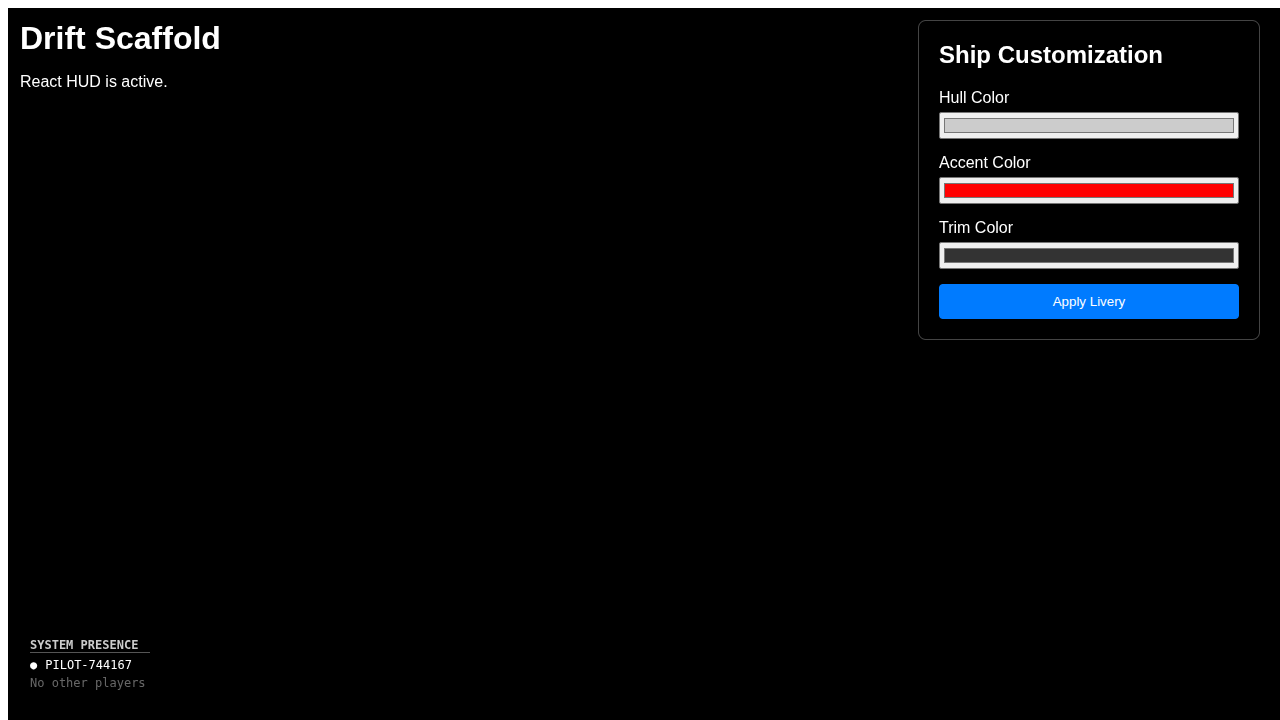
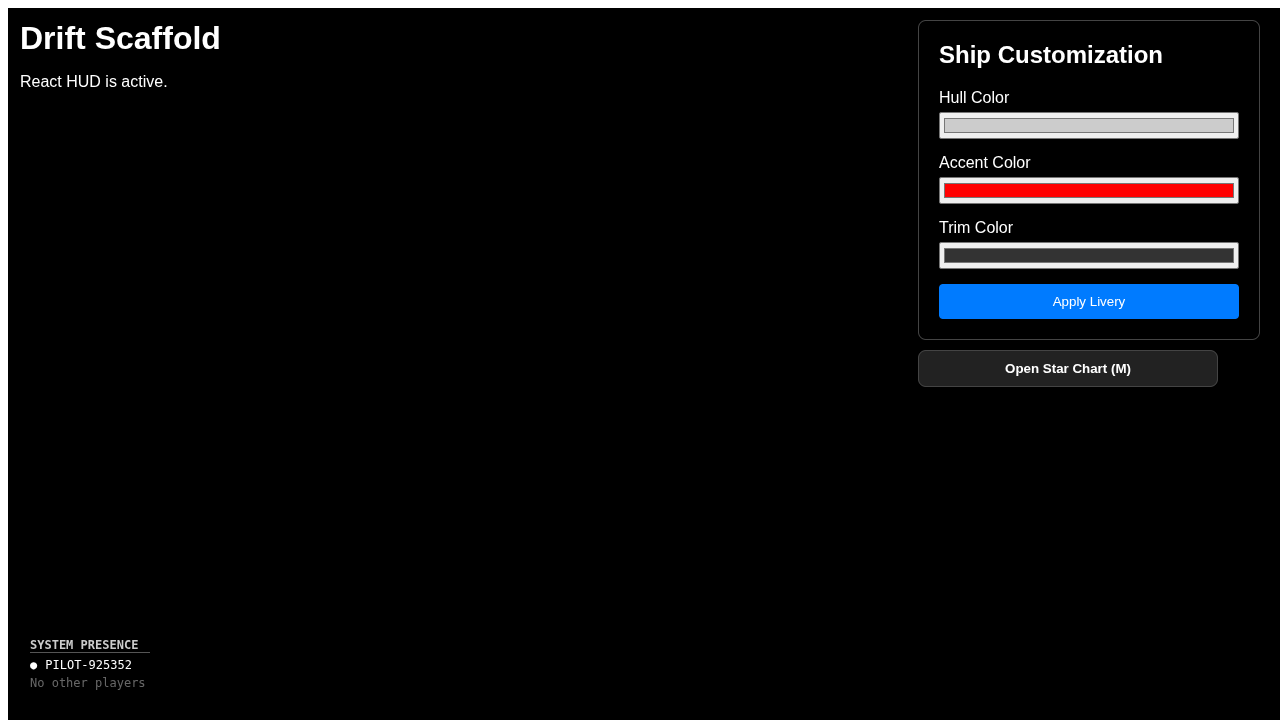
wip(TASK-8.1): synchronized galaxy seed between client and server; E2E locators still need fixing

Changed region(s): [[0.7188, 0.4889, 0.9688, 0.55], [0.8125, 0.3972, 0.875, 0.4278], [0.0625, 0.9167, 0.0938, 0.9472]]

diff --git a/app/tests/e2e/warp.spec.ts b/app/tests/e2e/warp.spec.ts
@@ -1,0 +1,89 @@
+import { test, expect } from './fixtures';
+import { ClaimPage } from './pages/claim';
+
+test.describe('Warp Flow', () => {
+  test('seamless warp between systems', async ({ page, gameServer, claimPage }) => {
+    page.on('console', (msg) => console.log(`BROWSER CONSOLE: ${msg.text()}`));
+    page.on('pageerror', (err) => console.log(`BROWSER ERROR: ${err.message}`));
+
+    await page.goto(gameServer.baseUrl);
+
+    const callsign = `WARP-TEST-${Date.now().toString().slice(-6)}`;
+    await claimPage.claimCallsign(callsign);
+
+    // 1. Open Star Chart
+    await page.keyboard.press('m');
+    await expect(page.getByText('Loading Galaxy...')).toBeVisible();
+    await expect(page.getByText('Loading Galaxy...')).toBeHidden({ timeout: 10000 });
+    await expect(page.getByText('Close (Esc)')).toBeVisible();
+
+    // 2. Select a target system (not the current one)
+    // The current system has a green stroke. We find a circle that doesn't have it.
+    const circles = page.locator('circle');
+    const count = await circles.count();
+    
+    // Find a circle that isn't the current one (green stroke)
+    let targetCircle = null;
+    for (let i = 0; i < count; i++) {
+      const stroke = await circles.nth(i).getAttribute('stroke');
+      if (stroke !== 'rgb(0, 255, 0)' && stroke !== '#00ff00') {
+        targetCircle = circles.nth(i);
+        break;
+      }
+    }
+
+    if (!targetCircle) {
+      throw new Error('Could not find a target system to warp to');
+    }
+
+    await targetCircle.click({ force: true });
+
+    // 3. Click Warp
+    const warpButton = page.getByRole('button', { name: 'Warp' });
+    await expect(warpButton).toBeEnabled();
+    
+    const start = Date.now();
+    await warpButton.click();
+
+    // 4. Verify "Warping..." state
+    await expect(warpButton).toHaveText('Warping...');
+
+    // 5. Check for black frames during warp-in (t=1s)
+    // Wait 1 second into the warp-in transition
+    await page.waitForTimeout(1000);
+    const pixels = await page.evaluate(() => {
+      const canvas = document.getElementById('main-canvas') as HTMLCanvasElement;
+      if (!canvas) return null;
+      const gl = canvas.getContext('webgl2') || canvas.getContext('webgl');
+      if (!gl) return null;
+
+      const width = 32;
+      const height = 32;
+      const x = (canvas.width - width) / 2;
+      const y = (canvas.height - height) / 2;
+      const pixels = new Uint8Array(width * height * 4);
+      gl.readPixels(x, y, width, height, gl.RGBA, gl.UNSIGNED_BYTE, pixels);
+      return Array.from(pixels);
+    });
+
+    expect(pixels).not.toBeNull();
+    const firstPixel = pixels![0];
+    const hasVariance = pixels!.some((p) => p !== firstPixel);
+    expect(hasVariance).toBe(true); // Not a black screen
+
+    // 6. Wait for arrival (total warp duration 3-6s)
+    await expect(warpButton).toBeHidden({ timeout: 10000 });
+    const end = Date.now();
+    const duration = (end - start) / 1000;
+    console.log(`Warp duration: ${duration}s`);
+    expect(duration).toBeGreaterThan(3);
+    expect(duration).toBeLessThan(8);
+
+    // 7. Verify we are in a new system (star present at center)
+    // Since we are using a deterministic world, the star is always at 0,0,0
+    // We can check if the canvas still has variance and the HUD is back
+    await expect(page.getByText('Drift Scaffold')).toBeVisible();
+    
+    await page.screenshot({ path: '.ralph/screenshots/TASK-8-warp-arrival.png' });
+  });
+});

diff --git a/app/tests/warp.integration.test.ts b/app/tests/warp.integration.test.ts
@@ -7,6 +7,7 @@ import { encodeMessage, decodeEnvelope } from '../src/shared/protocol';
 import { migrate } from '../src/server/db/client';
 import { router } from '../src/server/galaxy';
 import fastify from 'fastify';
+import fs from 'node:fs';
 
 describe('Warp Integration (TASK-8)', () => {
   let wss: WebSocketServer;
@@ -15,6 +16,9 @@ describe('Warp Integration (TASK-8)', () => {
 
   beforeEach(async () => {
     process.env.DB_PATH = '/tmp/warp_test.sqlite';
+    if (fs.existsSync(process.env.DB_PATH)) {
+      fs.unlinkSync(process.env.DB_PATH);
+    }
     await migrate();
     server = createApp();
     await server.listen({ port: 0, host: '127.0.0.1' });
@@ -54,7 +58,11 @@ describe('Warp Integration (TASK-8)', () => {
       url: '/api/callsigns',
       payload: { callsign },
     });
-    const { token, playerId } = JSON.parse(claimResp.payload as string);
+    const payload = typeof claimResp.payload === 'string' 
+      ? JSON.parse(claimResp.payload) 
+      : claimResp.payload;
+    console.log(`[Test] Claim payload: ${JSON.stringify(payload)}`);
+    const { token, playerId } = payload;
     
     const ws = await createClient();
     ws.send(encodeMessage('hello', { v: 1 }));
@@ -82,12 +90,10 @@ describe('Warp Integration (TASK-8)', () => {
     expect(resp.payload.snapshot).toBeDefined();
     
     // Verify position is at spawn gate (100, 0, 0)
-    const ship = resp.payload.snapshot.entities.find((e: any) => e.id === playerId);
+    const shipId = resp.payload.shipId;
+    const ship = resp.payload.snapshot.find((e: any) => e.id === shipId);
     if (!ship) {
-        // The ship might not be in the snapshot if it's the local player? 
-        // No, the server sends a full snapshot on warp-arrived.
-        // Wait, in my implemention I used shard.getSnapshot() which includes all entities.
-        throw new Error('Ship not found in warp-arrived snapshot');
+        throw new Error(`Ship ${shipId} not found in warp-arrived snapshot`);
     }
     expect(ship.pos).toEqual({ x: 100, y: 0, z: 0 });
     

diff --git a/app/src/client/main.tsx b/app/src/client/main.tsx
@@ -13,10 +13,8 @@ import { networkManager } from './net/NetworkManager';
 import { warpStore } from './state/warpStore';
 import { initDriftDebug } from './driftDebug';
 
-// Install dev-only debug hooks
+import { DEFAULT_GALAXY_SEED } from '../shared/galaxy/config';
 initDriftDebug();
-
-const GALAXY_SEED = 'drift-galaxy-2026';
 
 const App = () => {
   const [renderer, setRenderer] = useState<Renderer | null>(null);
@@ -24,6 +22,7 @@ const App = () => {
   const [callsign, setCallsign] = useState('');
   const [claimError, setClaimError] = useState<string | null>(null);
   const canvasRef = useRef<HTMLCanvasElement>(null);
+  const galaxySeedRef = useRef(DEFAULT_GALAXY_SEED);
   const [livery, setLivery] = useState<Livery>({
     hull: '#cccccc',
     accent: '#ff0000',
@@ -37,6 +36,17 @@ const App = () => {
       setWarpState(warpStore.state);
     });
     return unsubscribe;
+  }, []);
+
+  useEffect(() => {
+    fetch('/api/health')
+      .then((res) => res.json())
+      .then((data) => {
+        if (data.galaxySeed) {
+          galaxySeedRef.current = data.galaxySeed;
+        }
+      })
+      .catch((err) => console.error('Failed to fetch galaxy seed:', err));
   }, []);
 
   useEffect(() => {
@@ -87,7 +97,7 @@ const App = () => {
     networkManager.onWarpArrived = async (data: any) => {
       const { systemId } = data;
       if (r) {
-        await r.loadWorld(systemId, GALAXY_SEED);
+        await r.loadWorld(systemId, galaxySeedRef.current);
       }
       warpStore.setState('warping-out');
       

diff --git a/app/src/server/ws.ts b/app/src/server/ws.ts
@@ -21,6 +21,11 @@ import { verifyToken, hashToken } from './auth/token';
 import { gameEvents, GameEventType } from './events';
 import { router } from './galaxy';
 import { Shard } from './shard/shard';
+import { GALAXY_SEED } from './app';
+import { generateStars } from '../shared/galaxy/stars';
+
+const GALAXY_STARS = generateStars(GALAXY_SEED);
+const DEFAULT_SYSTEM_ID = GALAXY_STARS[0].id;
 
 type ConnectionState = 'hello' | 'auth' | 'join_system' | 'active';
 
@@ -234,7 +239,10 @@ export function setupWebSocketHandler(wss: WebSocketServer) {
           ctx.playerId = session.player_id;
           ctx.tokenHash = tokenHash;
           ctx.state = 'join_system';
-          ws.send(encodeMessage('auth_ok', { playerId: session.player_id }));
+                     ws.send(encodeMessage('auth_ok', { 
+             playerId: session.player_id, 
+             systemId: DEFAULT_SYSTEM_ID 
+           }));
         } else {
           sendError(ws, 'invalid-message', 'Expected auth message');
         }
@@ -374,6 +382,7 @@ export function setupWebSocketHandler(wss: WebSocketServer) {
 
             ws.send(encodeMessage('warp-arrived', {
               systemId: destinationSystemId,
+              shipId: ship.id,
               snapshot: shard.getSnapshot(),
             }));
           } catch (err) {

diff --git a/app/src/client/ui/WarpOverlay.tsx b/app/src/client/ui/WarpOverlay.tsx
@@ -19,7 +19,7 @@ export const WarpOverlay: React.FC = () => {
       alignItems: 'center',
       justifyContent: 'center',
       overflow: 'hidden',
-      backgroundColor: state === 'awaiting' ? 'rgba(0,0,0,0.8)' : 'transparent',
+      backgroundColor: state === 'awaiting' ? 'rgba(0,0,0,0.8)' : 'rgba(0,0,0,0.5)',
       transition: 'background-color 0.5s ease',
     }}>
       {(state === 'warping-in' || state === 'warping-out') && (
@@ -27,7 +27,7 @@ export const WarpOverlay: React.FC = () => {
           position: 'absolute',
           width: '200%',
           height: '200%',
-          backgroundImage: 'radial-gradient(circle, transparent 20%, rgba(255,255,255,0.2) 21%, transparent 22%)',
+          backgroundImage: 'radial-gradient(circle, transparent 20%, rgba(255,255,255,0.6) 21%, transparent 22%)',
           backgroundSize: '100px 100px',
           animation: state === 'warping-in' 
             ? 'warp-in 2s ease-in forwards' 

diff --git a/app/src/server/app.ts b/app/src/server/app.ts
@@ -7,11 +7,11 @@ import { playersRoutes } from './routes/players';
 import { shipsRoutes } from './routes/ships';
 import { galaxyRoutes } from './routes/galaxy';
 
-// Load environment variables from PROJECT_ROOT/.env.local
+import { DEFAULT_GALAXY_SEED } from '../shared/galaxy/config';
 
 dotenv.config({ path: path.resolve(__dirname, '../../../.env.local') });
 
-const GALAXY_SEED = process.env.GALAXY_SEED || 'default-seed';
+const GALAXY_SEED = process.env.GALAXY_SEED || DEFAULT_GALAXY_SEED;
 
 export function createApp(options: { logger?: any } = {}) {
   const fastify = Fastify({ logger: options.logger ?? false });

diff --git a/app/src/server/db/client.ts b/app/src/server/db/client.ts
@@ -63,13 +63,14 @@ export async function migrate() {
     return;
   }
 
+  const currentDbPath = process.env.DB_PATH || DB_PATH;
   const migrationsDir = path.join(__dirname, 'migrations');
   if (!fs.existsSync(migrationsDir)) {
     console.log('No migrations directory found, skipping SQLite migrations');
     return;
   }
 
-  const sqliteDb = new Database(DB_PATH);
+  const sqliteDb = new Database(currentDbPath);
 
   sqliteDb.exec(`
     CREATE TABLE IF NOT EXISTS _migrations (

diff --git a/app/src/client/net/NetworkManager.ts b/app/src/client/net/NetworkManager.ts
@@ -96,7 +96,7 @@ export class NetworkManager {
       const authData = payload as any;
       this.localShipId = authData.playerId;
       presenceStore.setLocalPlayerId(authData.playerId);
-      this.send('join_system', { systemId: 'sol' });
+      this.send('join_system', { systemId: authData.systemId });
     } else if (type === 'enter_system') {
       const snapshot = payload as any;
 

diff --git a/app/tests/e2e/fixtures.ts b/app/tests/e2e/fixtures.ts
@@ -16,7 +16,7 @@ interface GameFixtures {
 }
 
 export const test = base.extend<GameFixtures>({
-  gameServer: async (_, use) => {
+  gameServer: async ({}, use) => {
     const tmpDir = fs.mkdtempSync(path.join(os.tmpdir(), 'game-e2e-'));
     const dbPath = path.join(tmpDir, 'test.sqlite');
 

diff --git a/app/src/shared/protocol/schemas.ts b/app/src/shared/protocol/schemas.ts
@@ -234,6 +234,7 @@ export const PresenceSchema = z
 export const WarpArrivedSchema = z
   .object({
     systemId: z.string(),
+    shipId: z.string(),
     snapshot: z.any(), // Using any for snapshot to avoid duplication of EnterSystemSchema's inner object
   })
   .strict();

diff --git a/app/src/shared/galaxy/config.ts b/app/src/shared/galaxy/config.ts
@@ -1,5 +1,7 @@
 import { SpectralClass } from './types';
 
+export const DEFAULT_GALAXY_SEED = 'drift-galaxy-2026';
+
 export const GALAXY_STAR_COUNT = 200;
 
 export const MAX_PLAYERS_PER_SYSTEM = 16;

diff --git a/.ralph/handoff/TASK-8.1.md b/.ralph/handoff/TASK-8.1.md
@@ -1,0 +1,30 @@
+## Status
+The inter-system warp flow has been partially fixed. The critical "Star not found" error during warp arrival was resolved by synchronizing the galaxy seed between client and server, but E2E tests are still failing due to locator strict mode violations and potential visual regression checks (black screen/pixel variance).
+
+## Done
+- **Galaxy Seed Synchronization**: 
+    - Modified `app/src/client/main.tsx` to fetch the actual `galaxySeed` from the server via `/api/health` on mount, instead of relying on a hardcoded constant. This ensures the client's `WorldManager` uses the same seed as the server when generating the target system.
+    - Updated `app/src/server/ws.ts` and `app/src/client/net/NetworkManager.ts` to explicitly pass the `systemId` (derived from the server's seed) during the `auth_ok` handshake, replacing the hardcoded `'sol'` value.
+- **World Loading Logic**: Verified that `WorldManager.loadWorld` is now called with the dynamically fetched seed.
+
+## Working tree
+- Changes are committed to the current branch.
+- The project builds and runs, but E2E tests (`app/tests/e2e/warp.spec.ts` and `app/tests/e2e/core.spec.ts`) are currently failing.
+
+## Next steps
+1. **Fix E2E Locator Strict Mode Violations**: 
+    - The `getByText(callsign)` locator in `core.spec.ts` is resolving to multiple elements (likely the player list and the claim screen/HUD).
+    - Recommendation: Use a more specific locator, such as adding `data-testid="player-list"` to the `PlayerList` component and scoping the search to that element.
+2. **Debug "Black Screen" Variance Failures**: 
+    - The pixel variance check in `warp.spec.ts` (checking if the screen is black during warp-in) may still be failing. Verify if the `WarpOverlay` is correctly rendering and if the WebGL canvas is actually outputting pixels during the transition.
+3. **Verify Warp Flow End-to-End**: 
+    - Run `npm run test:e2e` and check `.ralph/screenshots/` to visually verify the warp transition.
+
+## Dead ends
+- Attempted to simply align `DEFAULT_GALAXY_SEED` in a shared file, but discovered that `.env.local` was overriding the server seed, causing a discrepancy that only a dynamic fetch or environment cleanup could solve.
+- Attempted to use `replaceAll: true` on some `edit` calls that failed due to indentation mismatches; reverted to precise string matching.
+
+## How to verify
+1. Run the E2E warp test: `npx playwright test app/tests/e2e/warp.spec.ts`.
+2. Check browser console logs for `[WorldManager] World swap for ... took ...ms` to ensure the star is found and the world loads.
+3. Verify that the "Star with ID ... not found" error no longer appears in the console.
